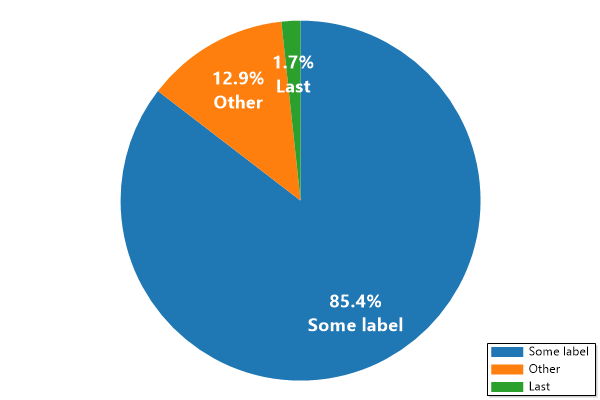
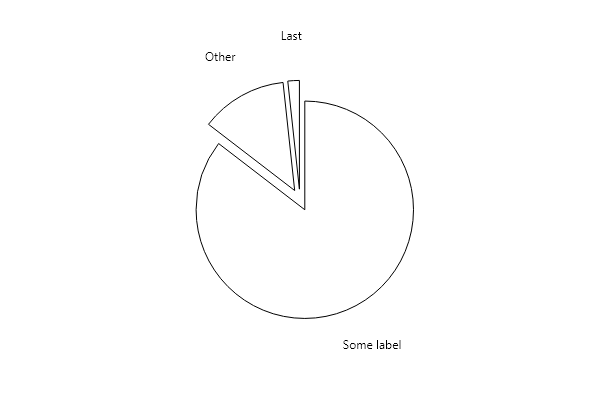
Update dependencies (#8)

diff --git a/BotDeScans.App/Services/ChartService.cs b/BotDeScans.App/Services/ChartService.cs
@@ -6,18 +6,19 @@ public class ChartService
     public virtual Stream CreatePieChart(
         IDictionary<string, double> labelsValues)
     {
-        var values = labelsValues.Select(x => x.Value).ToArray();
-        var labels = labelsValues.Select(x => x.Key).ToArray();
+        var plt = new Plot();
+        plt.ShowLegend();
+        plt.Axes.Frameless();
+        plt.HideGrid();
 
-        var plt = new Plot(width: 600, height: 400);
-        var pie = plt.AddPie(values);
-        pie.SliceLabels = labels;
-        pie.ShowPercentages = true;
-        pie.ShowValues = false;
-        pie.ShowLabels = true;
-        plt.Legend();
+        var pie = plt.Add.Pie(labelsValues
+            .Select(x => new PieSlice() { Value = x.Value, Label = x.Key })
+            .ToList());
 
-        var imageBytes = plt.GetImageBytes();
+        pie.ExplodeFraction = .1;
+        pie.SliceLabelDistance = 1.4;
+
+        var imageBytes = plt.GetImageBytes(600, 400, ImageFormat.Png);
         return new MemoryStream(imageBytes);
     }
 }

diff --git a/BotDeScans.UnitTests/Builders/InteractionContextBuilder.cs b/BotDeScans.UnitTests/Builders/InteractionContextBuilder.cs
@@ -53,7 +53,7 @@ public class InteractionContextBuilder
         A.CallTo(() => member.User).Returns(new Optional<IUser>(user));
 
         return new(new Interaction(
-            id,
+            ID: id,
             ApplicationID: new Snowflake(faker.Random.ULong()),
             Type: InteractionType.ApplicationCommand,
             Data: default,
@@ -63,6 +63,13 @@ public class InteractionContextBuilder
             Member: new Optional<IGuildMember>(member),
             User: default,
             Token: token,
-            Version: 1));
+            Version: 1,
+            Message: default,
+            AppPermissions: default,
+            Locale: default,
+            GuildLocale: default,
+            Entitlements: default,
+            Context: default,
+            AuthorizingIntegrationOwners: default));
     }
 }

diff --git a/BotDeScans.UnitTests/Specs/Services/ChartServiceTests.cs b/BotDeScans.UnitTests/Specs/Services/ChartServiceTests.cs
@@ -2,9 +2,11 @@
 using FluentAssertions;
 using System.Collections.Generic;
 using System.Drawing;
+using System.Globalization;
 using System.IO;
 using System.Linq;
 using System.Reflection;
+using System.Threading;
 using Xunit;
 namespace BotDeScans.UnitTests.Specs.Services;
 
@@ -12,9 +14,11 @@ public class ChartServiceTests : UnitTest
 {
     public class CreatePieChart : ChartServiceTests
     {
-        [Fact(Skip = "comma format is not culture insensitive")]
+        [Fact]
         public void ShouldCreatePieChartAsExpected()
         {
+            Thread.CurrentThread.CurrentCulture = new CultureInfo("en-US");
+
             var service = new ChartService();
             var data = new Dictionary<string, double>
             {

diff --git a/BotDeScans.App/Features/Titles/TitleCommands.cs b/BotDeScans.App/Features/Titles/TitleCommands.cs
@@ -165,7 +165,7 @@ public class TitleCommands(
         var referenceValueParsedResult = referenceName switch
         {
             ExternalReference.MangaDex => mangaDexService.GetTitleIdFromUrl(referenceValue),
-            _ => FluentResults.Result.Ok(referenceValue)
+            _ => FluentResults.Result.Fail("Referência inválida")
         };
 
         if (referenceValueParsedResult.IsFailed)

diff --git a/BotDeScans.UnitTests/Specs/Features/GoogleDrive/InternalServices/GoogleDriveFoldersServiceTests.cs b/BotDeScans.UnitTests/Specs/Features/GoogleDrive/InternalServices/GoogleDriveFoldersServiceTests.cs
@@ -12,7 +12,6 @@ using FluentResults.Extensions.FluentAssertions;
 using Google.Apis.Drive.v3;
 using Google.Apis.Drive.v3.Data;
 using iText.Layout.Element;
-using ScottPlot.SnapLogic;
 using System.Collections.Generic;
 using System.Linq;
 using System.Threading.Tasks;
